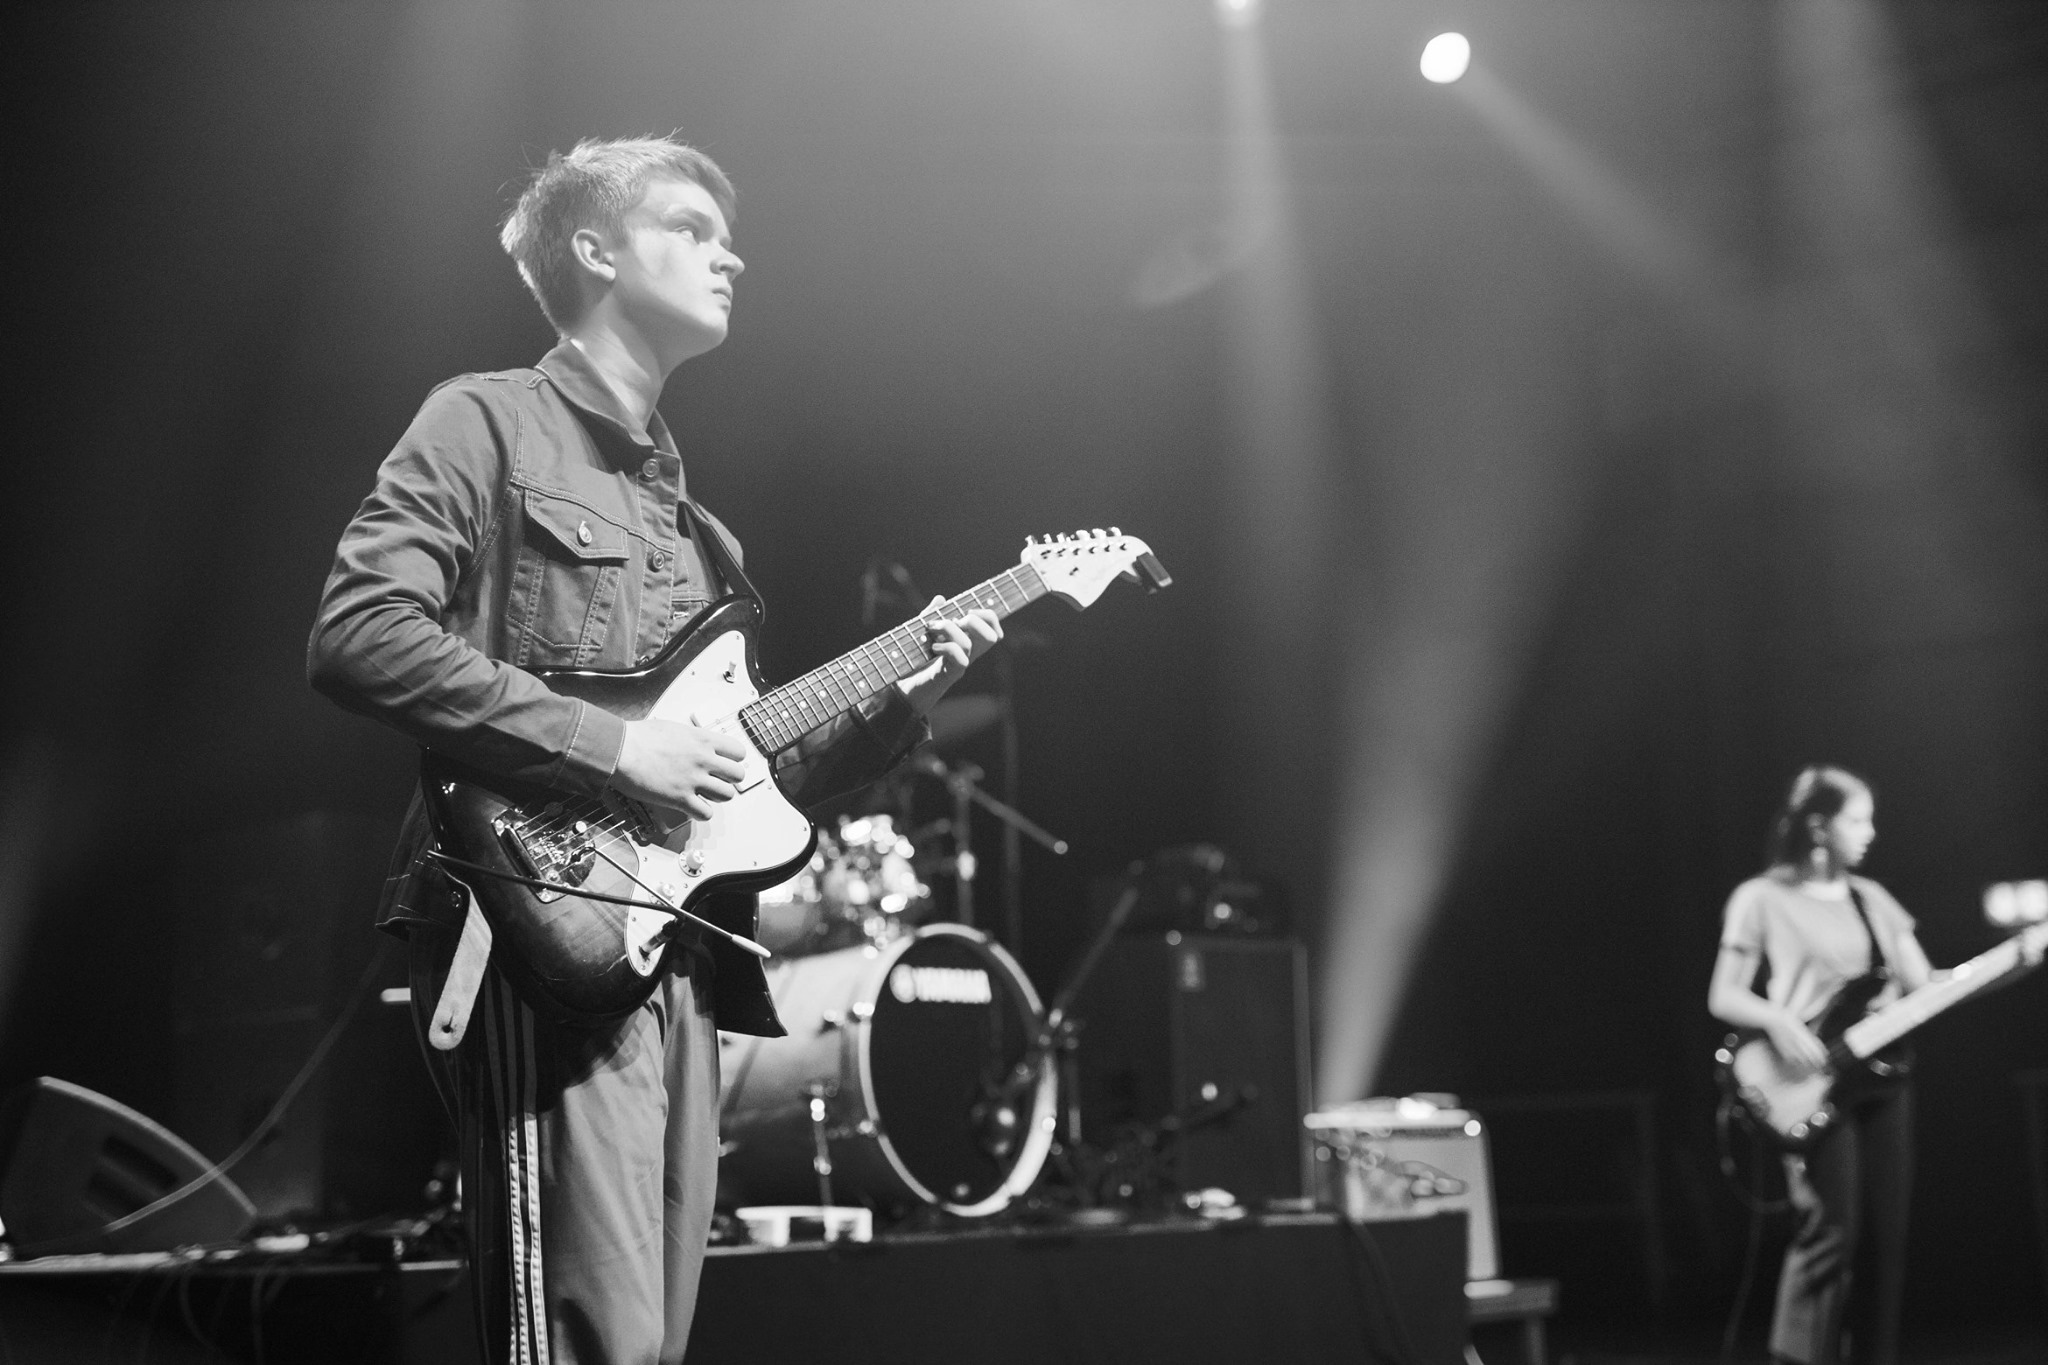
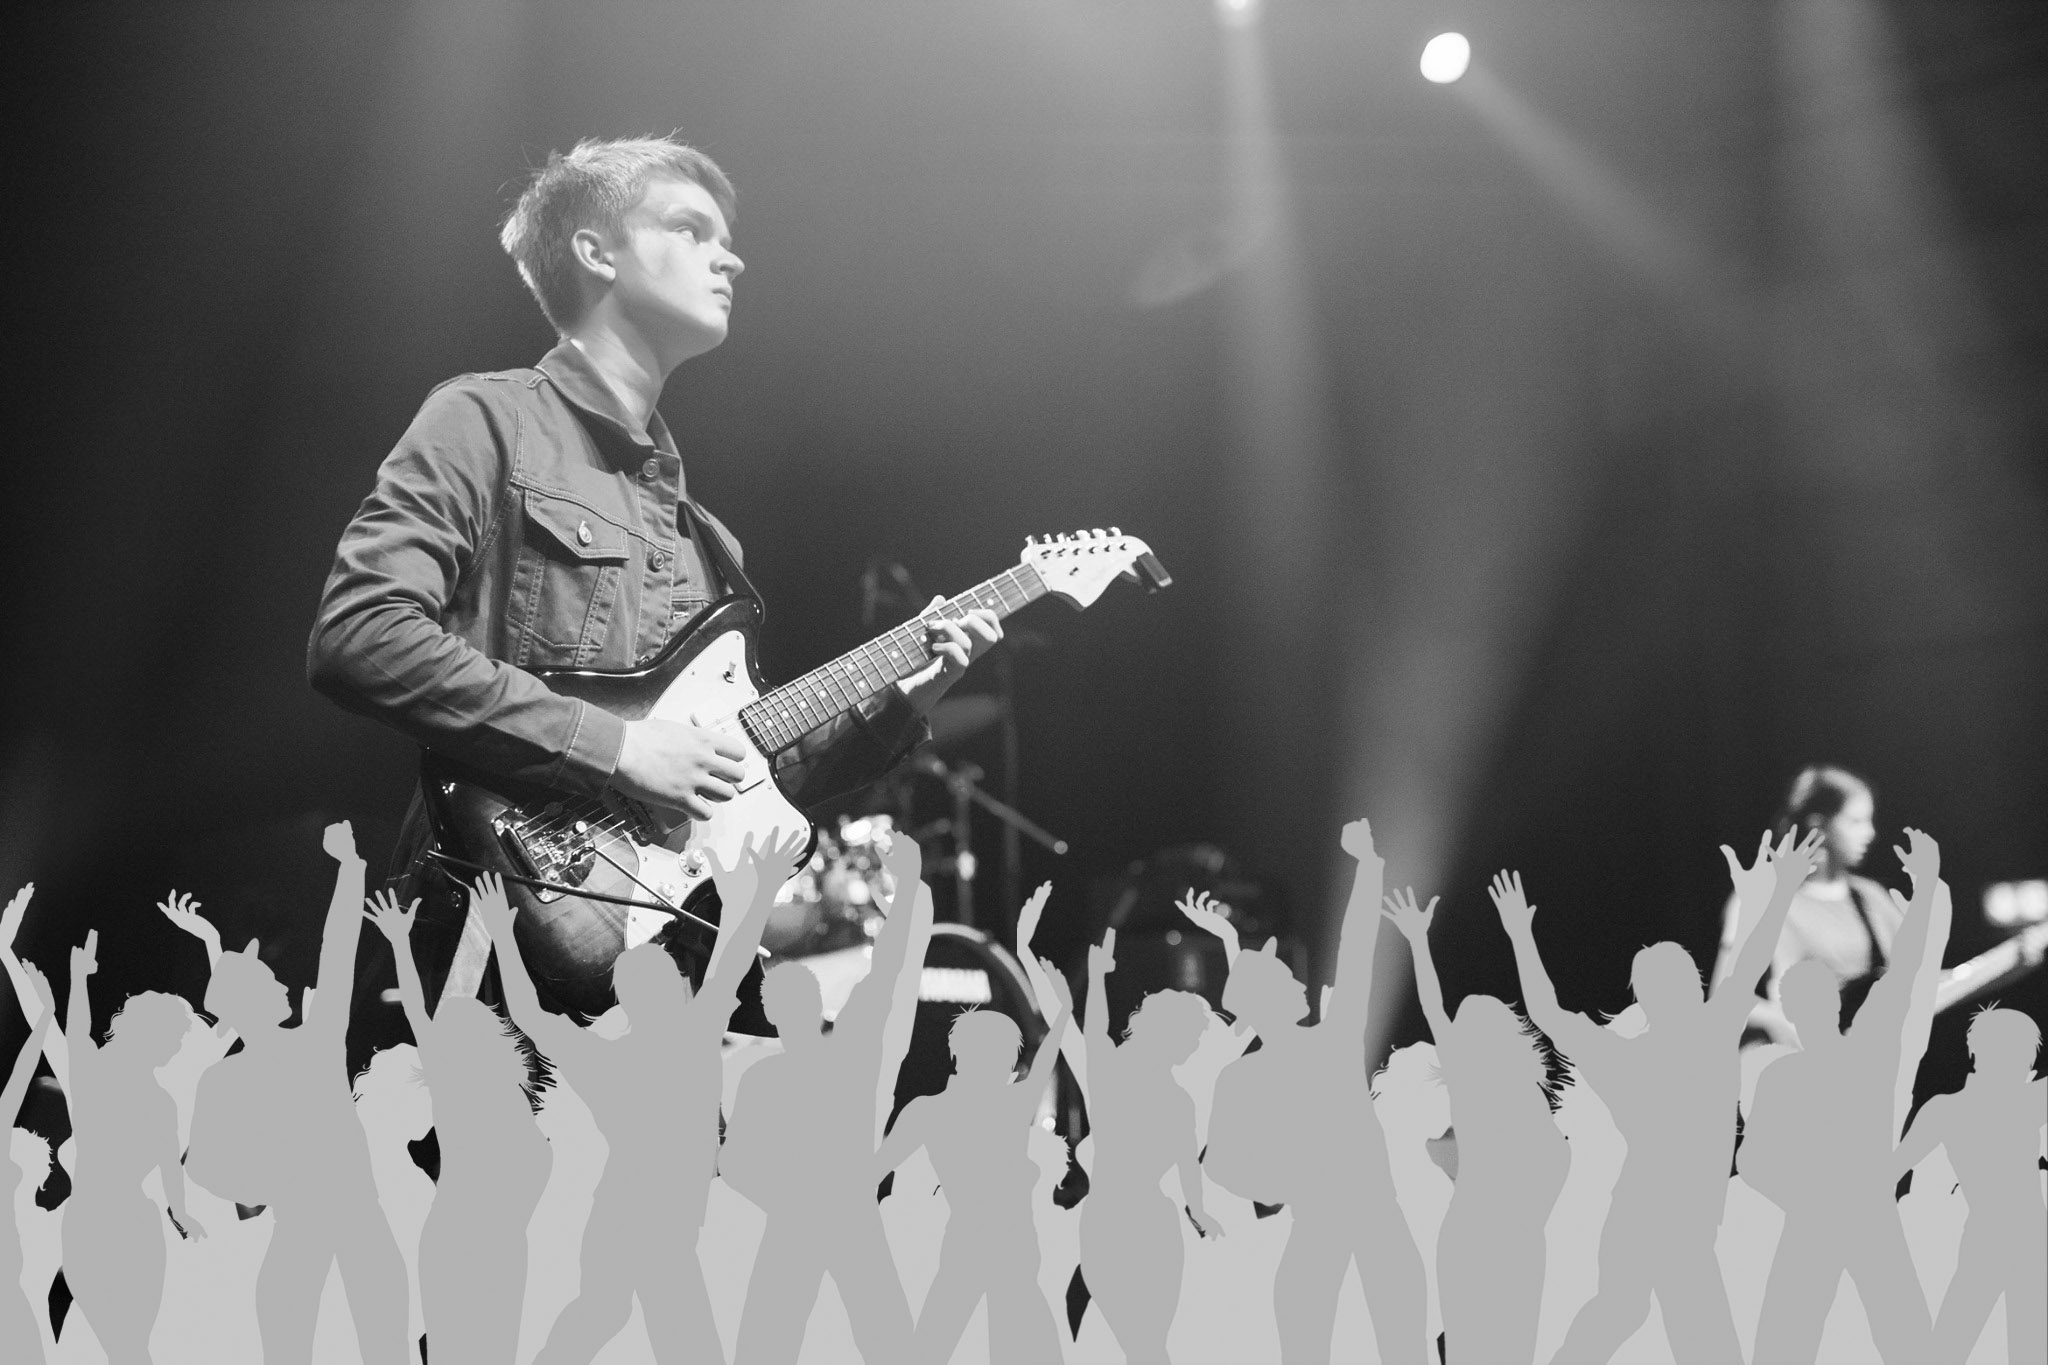
Forside done for idag

Changed region(s): [[0.0, 0.5846, 1.0, 1.0], [0.5625, 0.6462, 0.5938, 0.6769], [0.0625, 0.6462, 0.0938, 0.6769]]

diff --git a/index.html b/index.html
@@ -1,32 +1,100 @@
 <!DOCTYPE html>
 <html lang="da">
+
 <head>
     <meta charset="UTF-8">
     <meta name="viewport" content="width=device-width, initial-scale=1.0">
     <title>Ungdomsringens Musikfestival 2020</title>
     <link rel="stylesheet" type="text/css" href="assets/css/styles.css">
     <script src="assets/js/script.js" defer></script>
-    <link rel="stylesheet" href="https://cdnjs.cloudflare.com/ajax/libs/font-awesome/4.7.0/css/font-awesome.min.css"> <!--Font Awesome Icons-->
+    <link rel="stylesheet" href="https://cdnjs.cloudflare.com/ajax/libs/font-awesome/4.7.0/css/font-awesome.min.css">
+    <!--Font Awesome Icons-->
 </head>
+
 <body>
-    <nav id="navigation">
-        <ul>
-            <li><img src="" alt=""></li>
-            <li><a class="currentsite" href="">Forside</a></li>
-            <li><a href="">Information</a></li>
-            <li><a href="">Program</a></li>
-            <li><a href=""><i class="fa fa-facebook-f fa-lg"></i></a></li>
-            <li><a href=""><i class="fa fa-instagram fa-lg"></i></a></li>
-        </ul>
-    </nav>
     <main>
+        <nav id="navigation">
+            <ul>
+                <li><img src="assets/css/images/UMF speaker.png" alt="Ungdomsringens Musikfestival Logo" id="logo"></li>
+                <li><a class="currentsite" href="">Forside</a></li>
+                <li><a href="">Information</a></li>
+                <li><a href="">Program</a></li>
+                <li><a href=""><i class="fa fa-facebook-f fa-lg"></i></a></li>
+                <li><a href=""><i class="fa fa-instagram fa-lg"></i></a></li>
+            </ul>
+        </nav>
+
         <div id="topmain">
-            <h1>UNGDOMSRINGENS MUSIKFESTIVAL 2020</h1>
-            <p>17-02-2020</p>
-            <button>Tilmelding</button>
-            <i class="fa fa-arrow-down"></i>
+            <section>
+                <h1>UNGDOMSRINGENS <br> MUSIKFESTIVAL 2020</h1>
+                <p>17/02/2020</p>
+                <button><a href="#tilmelding">Tilmelding</a></button>
+            </section>
+            <section id="icondown">
+                <i class="fa fa-arrow-down fa-3x"></i>
+            </section>
         </div>
     </main>
-    <footer id="footer"></footer>
+
+    <div id="aboutus">
+        <h2>Ungdomsringen Præsenterer <br> - i samarbejde med NORDKRAFT <br> Undgomsringens Musikfestival 2020</h2>
+        <div id="JScontent">
+            <section></section>
+            <aside></aside>
+        </div>
+        <div id="JScontent">
+            <section></section>
+            <aside></aside>
+        </div>
+    </div>
+
+    <div id="galleryandsubscribe">
+        <div>
+            <h3>Galleri</h3>
+            <section id="JSgalleri"></section>
+        </div>
+        <div>
+            <h3 id="tilmelding">Tilmelding</h3>
+            <div class="container">
+                <section class="infobox leftsection">
+                    <h4>Generel information</h4>
+                    <article>Tilmeldingsfrist er fredag d. 8. november 2019</article>
+                    <article>Spilletider sælges efter først-til-mølle-princippet - 5 bands pr. klub. Ved ledige tiderkan
+                        flere komme med eller dele deres spilletid mellem 2 bands.</article>
+                    <article>Priser:</article>
+                    <article>Bands med spilletid på Royal Stage, Skråen, Scene Joule, Scene Ohm: 350 kr.</article>
+                    <article>Artister og acts med spilletid på Cafe Kul - Cafescenen (unplugged performance) eller i
+                        Kælderscenen (elektronisk musik, rap mv.): 175 kr.</article>
+                </section>
+                <section>
+                    <button class="subbtn">Tilmeld</button>
+                    <button class="infobtn">Mere info</button>
+                </section>
+                <section class="infobox rightsection">
+                    <h4>Regler</h4>
+                    <article>ØL/VIN/SPIRITUS OG STOFFER</article>
+                    <article>Det skal understreges, at al medbringen og indtagelse af øl/vin/spiritus/hash m.m. er
+                        forbudt. Det gælder både i og udenfor Nord-kraft. Det er deltagende og medarbejderes ansvar, at
+                        de deltagende unge overholder dette forbud. Indtagelse af ovennævnte ting vil medføre, at
+                        klubben bliver bortvist fra festivalen.</article>
+                    <article>Musikfestivalen er et alkohol-, stof- og røgfrit arrangement.</article>
+                    <article>Har I spørgsmål, så kontakt konsulent Søren Elmkær på sel@ungdomsringen.dk.</article>
+                </section>
+            </div>
+        </div>
+        <img class="partnersimg" src="assets/css/images/partners.jpg"
+            alt="Ungdomsringen Fritids- og ungdomsklubber i Danmark og partners af Ungdomsringens Musikfestival">
+    </div>
+
+    <footer id="footer">
+        <p>I samarbejde med Aalborg kommune og en <br> masse andre...</p>
+        <section class="footericons">
+            <i class="fa fa-facebook-f fa-3x"></i>
+            <i class="fa fa-instagram fa-3x"></i>
+        </section>
+        <p>Ungdomsringen@hotmail.dk<br>
+            Tlf: +45 22 33 44 55</p>
+    </footer>
 </body>
+
 </html>

diff --git a/assets/css/styles.css b/assets/css/styles.css
@@ -1,7 +1,7 @@
 @charset "UTF-8";
-
 html {
     box-sizing: border-box;
+    scroll-behavior: smooth;
 }
 
 body {
@@ -12,55 +12,200 @@ body {
 
 /* Styling for navigation bar for all sites*/
 
-#navigation {
-    width: 100vw;
-    height: 10vh;
-}
-
 ul {
     margin: 0;
-    padding: 0;
+    padding: 1vh 1vw;
     list-style-type: none;
     overflow: hidden;
-    background-color: #1A1A1A;
 }
 
 li {
     float: left;
+    height: 8vh;
 }
 
 li a {
     color: #EA5634;
     display: block;
     text-align: center;
-    padding: 14px 16px;
-    margin-left: 12vw;
+    padding: 2vh 0.5vw;
+    margin-left: 8vw;
     text-decoration: none;
-  }
+    font-size: 1.7vw;
+    background-color: #1A1A1A;
+    width: 9vw;
+}
 
 .currentsite {
     color: #13849E;
 }
 
+#logo {
+    width: 4vw;
+    height: 8vh;
+}
+
 /* Styling for Facebook and Instagram and Arrow icons */
 
-i { 
+i {
     color: #EA5634;
 }
 
-/* Styling for top part of the main page */
+/* Styling for top part of the main part of the landing page */
 
-#topmain {
+h1 {
     margin: 0;
-    padding: 0;
+}
+
+p {
+    margin-top: 2vh;
+    font-weight: bold;
+}
+
+main {
     background: url(images/landing.jpg);
-    height: 100vh; 
+    height: 100vh;
     background-position: center;
     background-repeat: no-repeat;
     background-size: cover;
 }
 
-h1 {
+#topmain {
+    color: #B73D3D;
+    width: 100%;
+    font-size: 3vw;
+    text-align: center;
+    margin-top: 10vh;
+}
+
+#icondown {
+    margin-top: 10vh;
+}
+
+/* Styling for buttons */
+
+button {
+    width: 12vw;
+    padding: 2vh;
+    font-size: 2vw;
+    border: 2px solid #B73D3D;
+    background-color: black;
+    color: #B73D3D;
+}
+
+a {
+    text-decoration: none;
+    color: #B73D3D;
+}
+
+/* Styling for about us section on the landing page */
+
+#aboutus {
+    background-color: black;
     margin: 0;
     padding: 0;
+    color: white;
+    height: 100vh;
+}
+
+h2 {
+    margin: 0;
+    padding: 0;
+    text-align: center;
+    padding-top: 10vh;
+    font-size: 2vw;
+}
+
+/*Styling for Gallery and Subscribe section on the landing page */
+
+h3 {
+    margin: 0;
+    padding: 0;
+    text-align: center;
+    padding-top: 10vh;
+    font-size: 3vw;
+    color: #B73D3D;
+}
+
+.infobox {
+    width: 25vw;
+    height: 55vh;
+    padding: 2vh;
+    border: 2px solid #B73D3D;
+    background-color: black;
+}
+
+h4 {
+    margin: 0;
+    padding: 0;
+    text-align: center;
+    font-size: 2vw;
+    color: #B73D3D;
+}
+
+article {
+    color: white;
+    margin-top: 2vh;
+    line-height: 1.5;
+}
+
+.leftsection {
+    grid-area: leftsect;
+    margin-left: 10vw;
+}
+
+.rightsection {
+    grid-area: rightsect;
+    margin-left: 15vw;
+}
+
+.container {
+    display: grid;
+    grid-template-areas: 
+    'leftsect rightsect';
+    margin-top: 10vh;
+}
+
+.subbtn {
+    position: relative;
+    bottom: 45vh;
+    left: 43.8vw;
+}
+
+.infobtn {
+    position: relative;
+    bottom: 25vh;
+    left: 31.5vw;
+}
+
+.partnersimg {
+    width: 50vw;
+    margin-left: 25vw;
+    margin-bottom: 10vh;
+}
+
+/* Styling for the footer for all sites */
+
+footer {
+    background-color: black;
+    color: #B73D3D;
+    white-space: nowrap;
+    overflow-x: auto;
+    overflow-y: hidden;
+}
+
+footer > p {
+    display: inline-block;
+    padding-left: 11vw;
+}
+
+footer > .footericons {
+    display: inline-block;
+    padding-left: 11vw;
+}
+
+.footericons > i {
+    padding-left: 2.5vw;
+    padding-top: 2vh;
+    padding-bottom: 2vh;
 }
